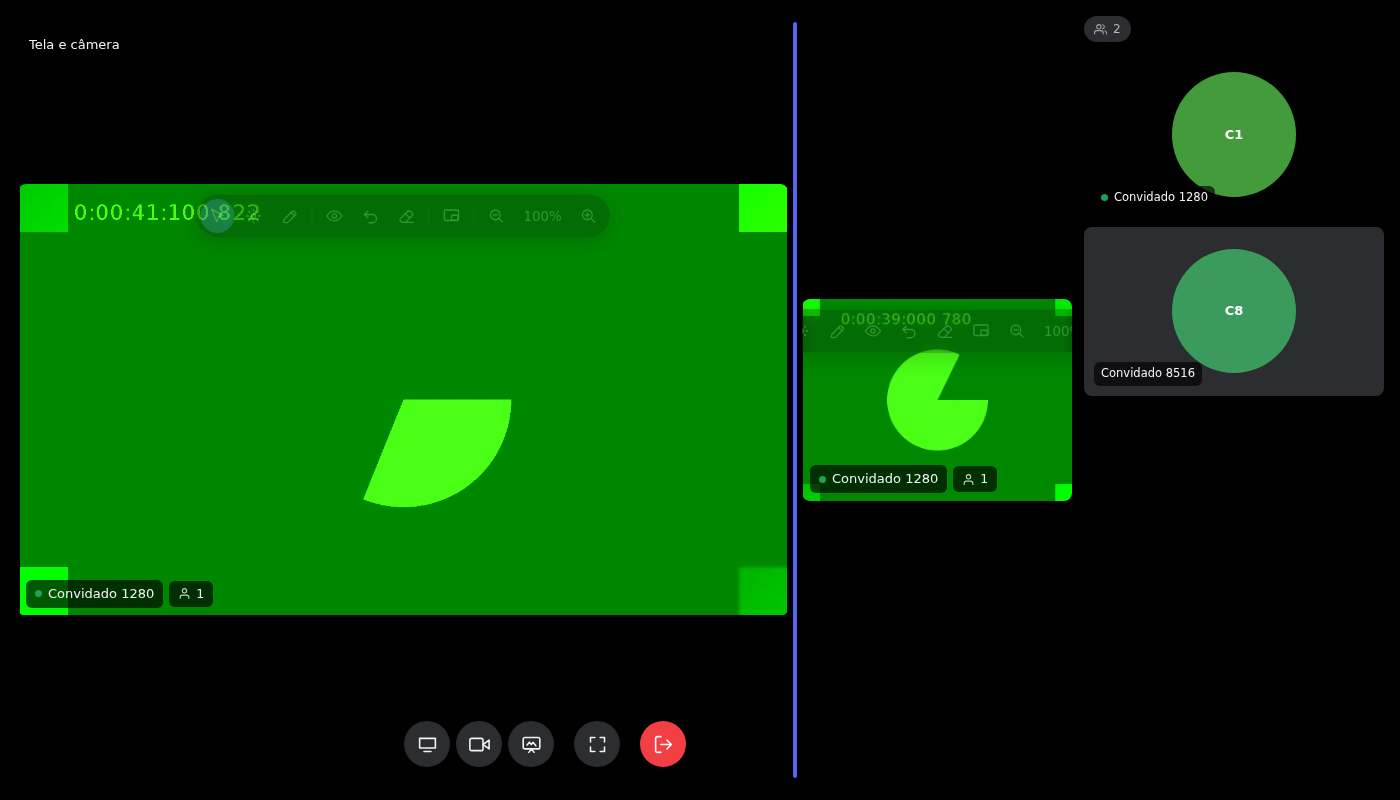
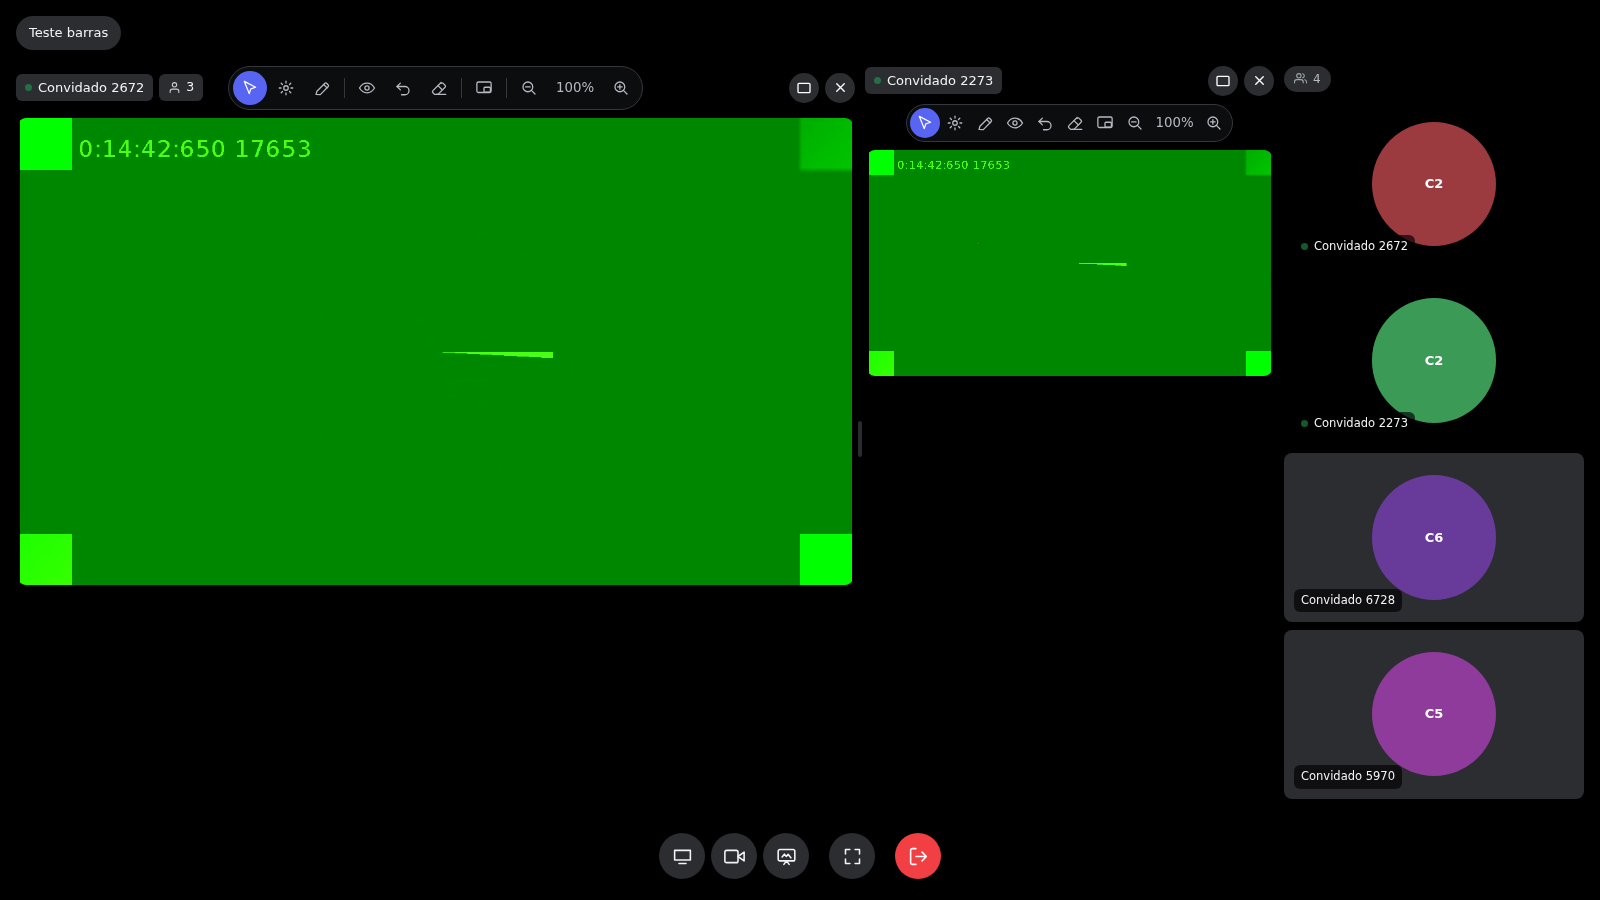
Pílulas visíveis fora do vídeo; imagem do palco dividido com as faixas

diff --git a/client/src/style.css b/client/src/style.css
@@ -1214,8 +1214,9 @@ button {
   white-space: nowrap;
 }
 
-/* Encostado embaixo, como a barra de controles de uma call. O respiro menor
-   embaixo do que em cima é de propósito: a barra pertence à borda da tela. */
+/* Fundo em --tile, como a contagem da lateral: a pílula mora na faixa da
+   barra de cima, sobre o preto da página, e o preto translúcido de quando ela
+   flutuava sobre o vídeo sumia ali. */
 .pill {
   position: relative;
   display: inline-flex;
@@ -1223,8 +1224,7 @@ button {
   gap: 7px;
   padding: 7px 13px;
   border-radius: 999px;
-  background: rgba(0, 0, 0, 0.65);
-  backdrop-filter: blur(8px);
+  background: var(--tile);
   color: var(--text);
   font-size: 13px;
   font-weight: 500;

diff --git a/README.md b/README.md
@@ -306,7 +306,7 @@ lateral some, e ele continua lá).
   neste navegador e vale para as próximas vezes, sem mudar nada para quem mais
   está assistindo.
 
-  ![Palco dividido com a barra arrastada: a tela ocupa a maior parte, e a câmera fica com o resto](docs/palco-dividido-barra.png)
+  ![Palco dividido com a barra arrastada: uma tela ocupa a maior parte e a outra fica com o resto, cada uma com a sua faixa de nome, ferramentas e botões acima da imagem](docs/palco-dividido-barra.png)
 
 - Cada tela tem a **sua** faixa, com a **sua** barra de ferramentas, e o
   **seu** zoom: aproximar uma
